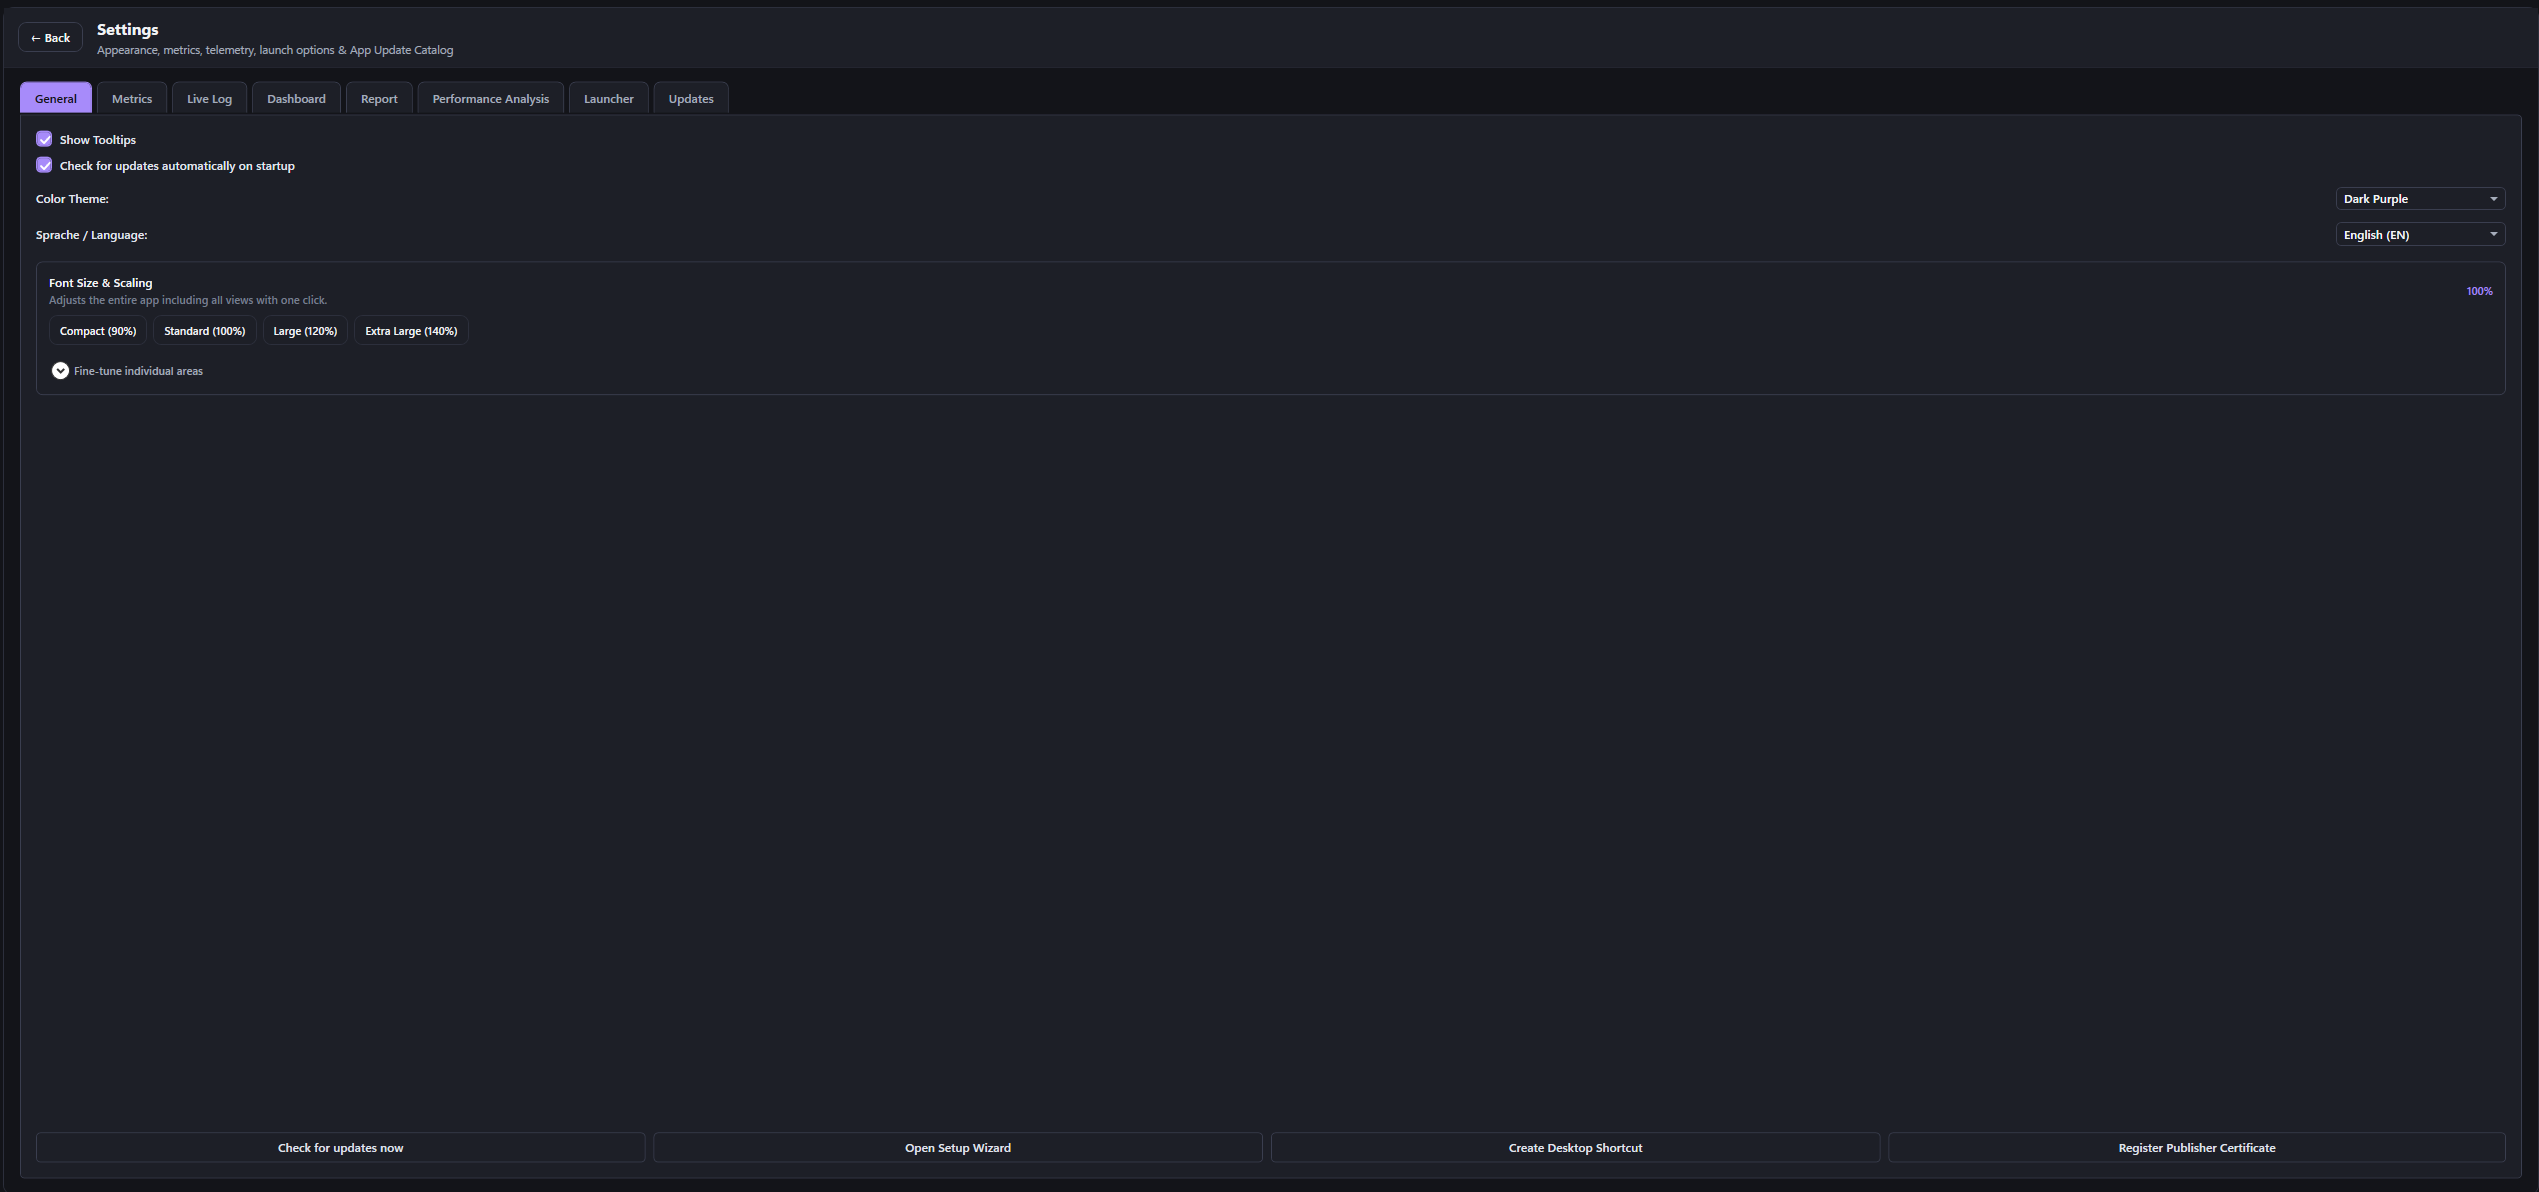
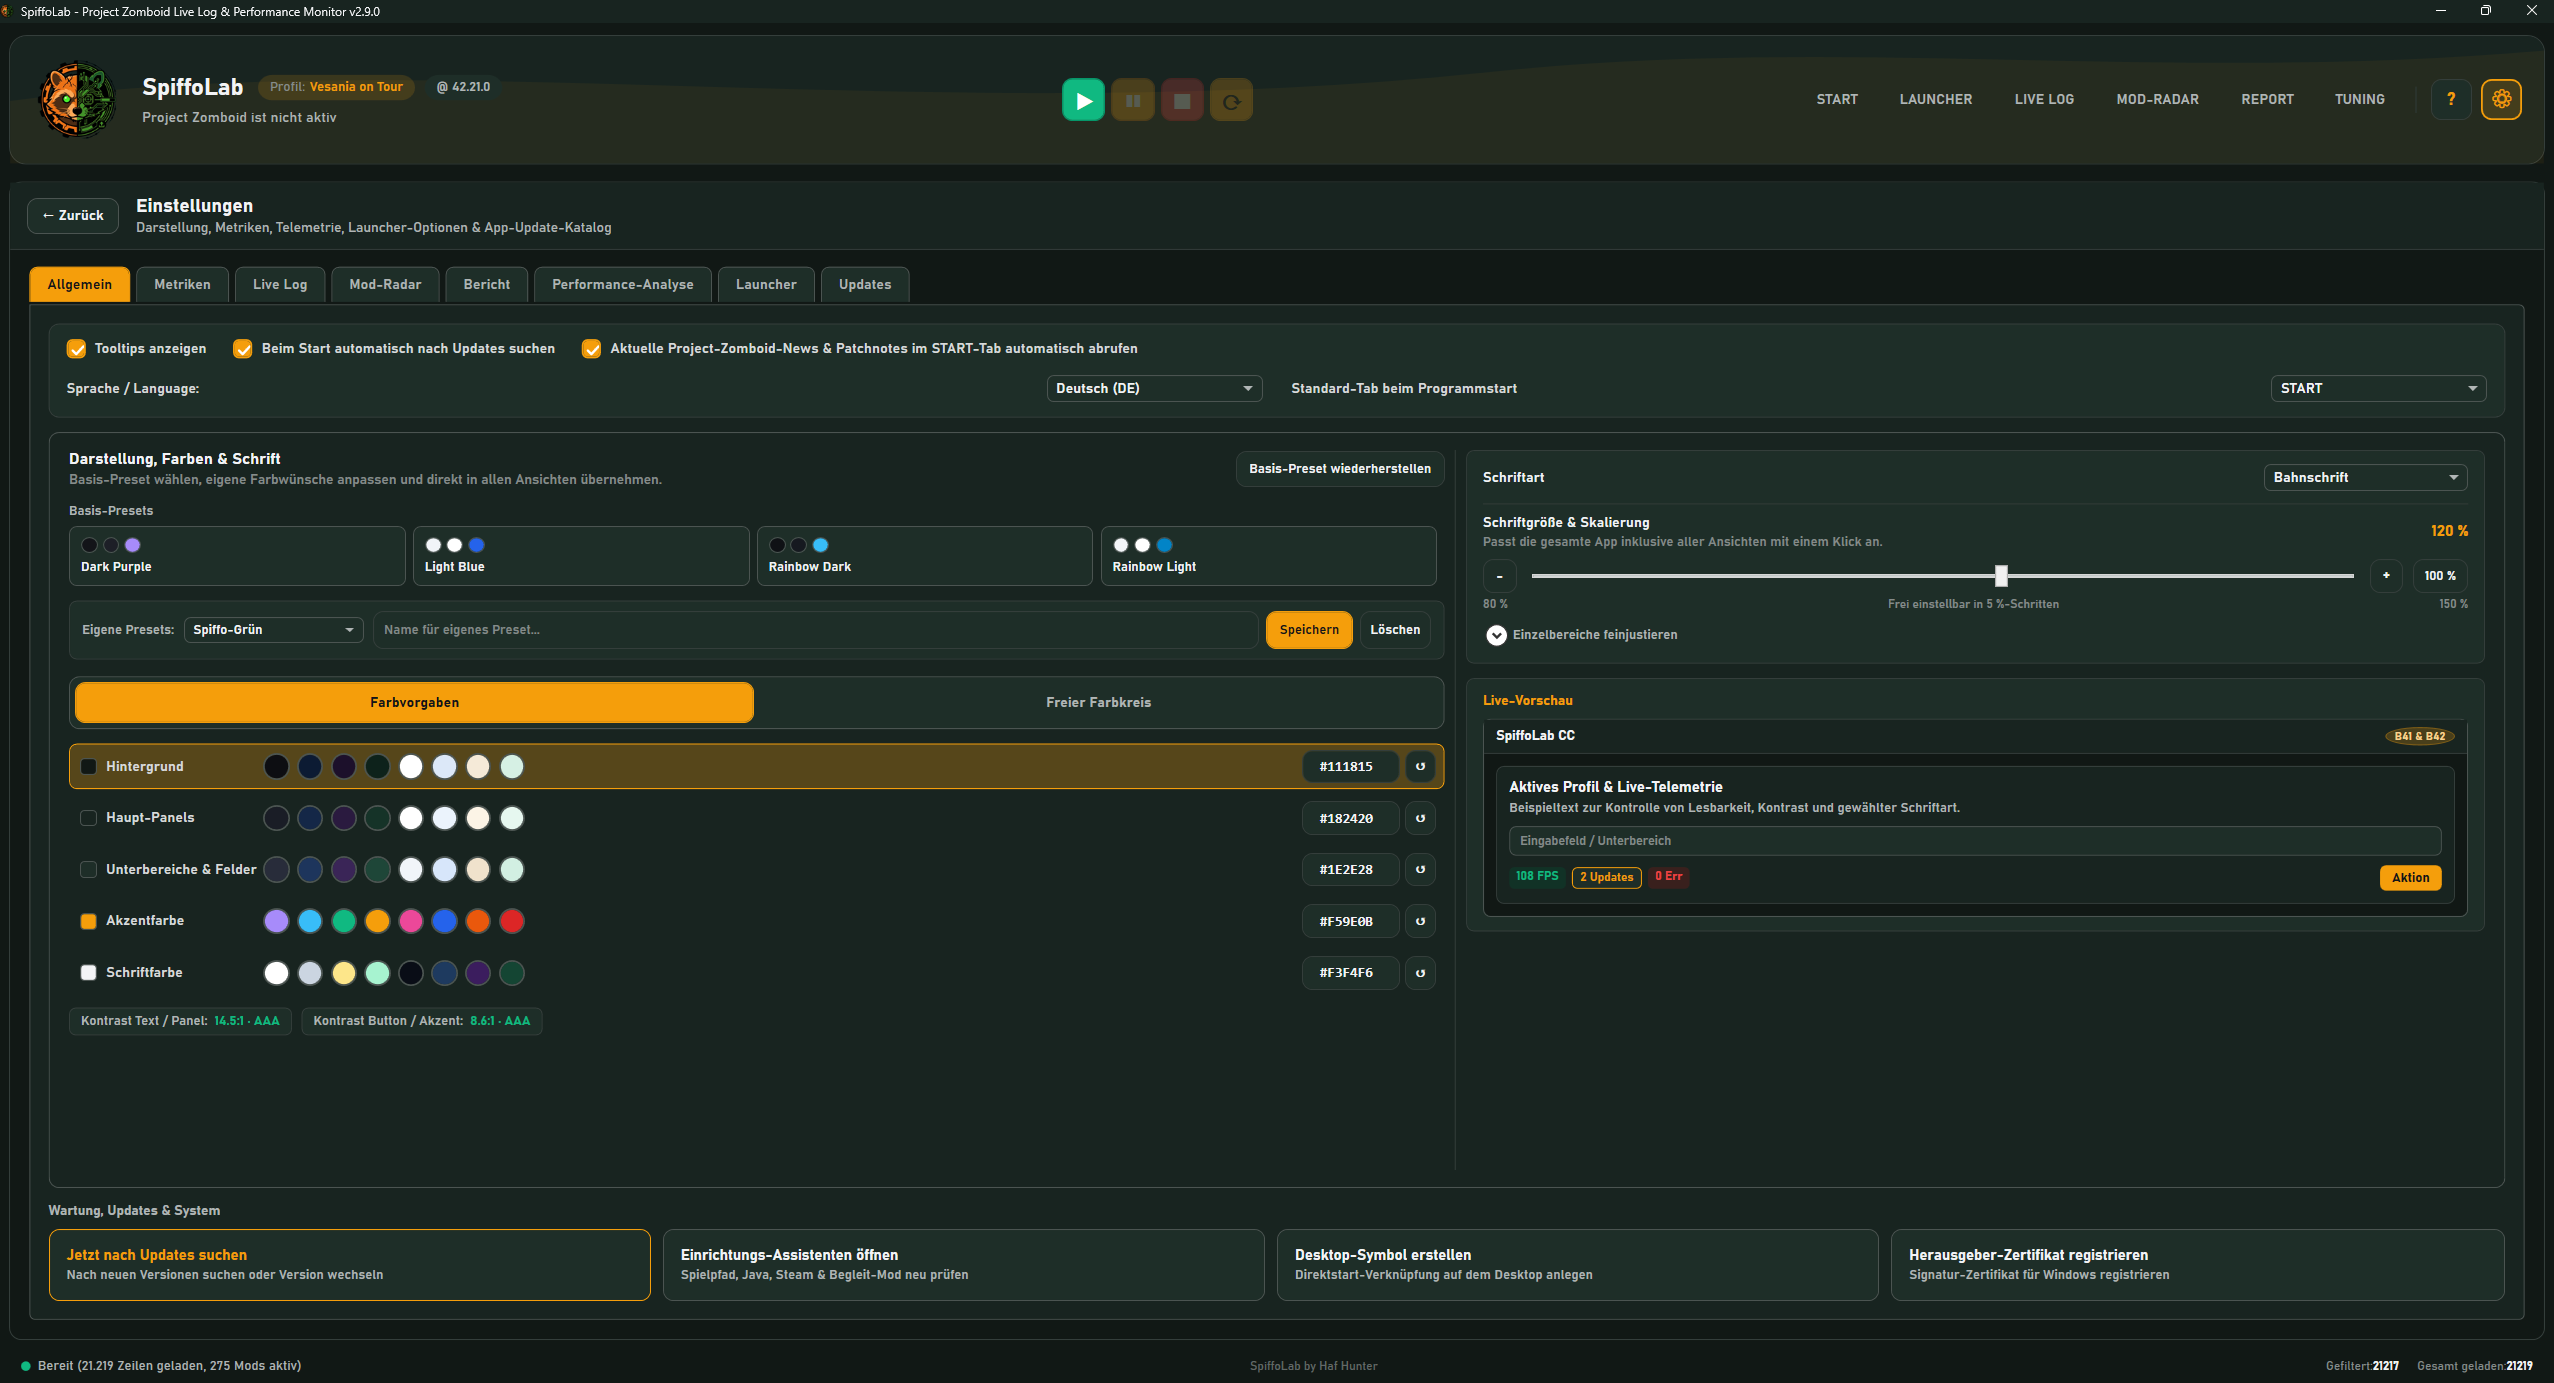
docs(media): add v2.10.0 Make Your Own Lab screenshots to README

diff --git a/README.md b/README.md
@@ -38,9 +38,9 @@ SpiffoLab CC puts your entire Project Zomboid setup under one roof: protect long
 | :---: | :---: |
 | ![1-Click Tuning & Live Metrics](media/tuning_complete.png) | ![Mod-Radar Analytics](media/dashboard.png) |
 
-| Inline Settings, Themes & Update Catalog |
-| :---: |
-| ![Inline Settings & App Updates](media/settings_new.png) |
+| Make Your Own Lab: Custom Theme Studio & Settings | Free HSV Color Wheel & Contrast Check | Curated Fonts & Free 80%–150% Scaling |
+| :---: | :---: | :---: |
+| ![Custom Theme Studio & Settings](media/settings_new.png) | ![Free HSV Color Wheel](media/color_wheel.png) | ![Fonts & 80%-150% Scaling](media/font_settings.png) |
 
 *Want to explore every feature before installing? Try the live interactive preview directly in your browser at [spiffolab.com](https://spiffolab.com).*
 
